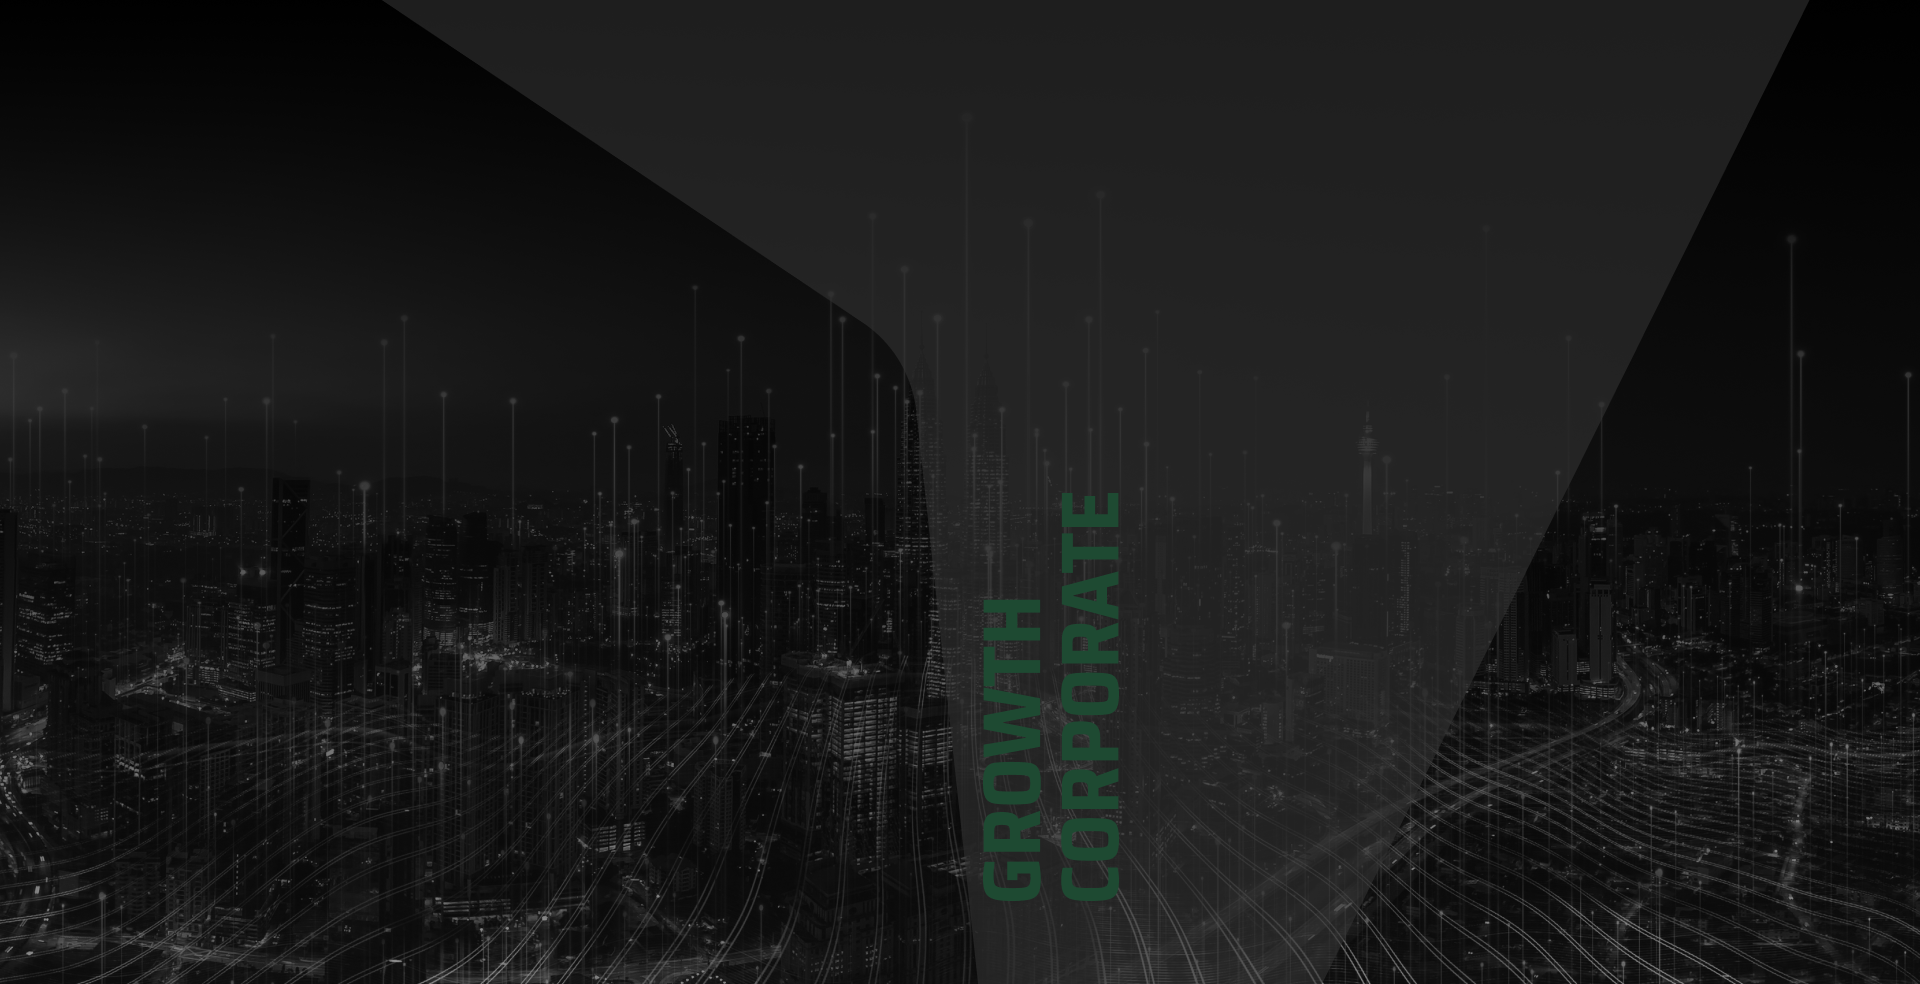
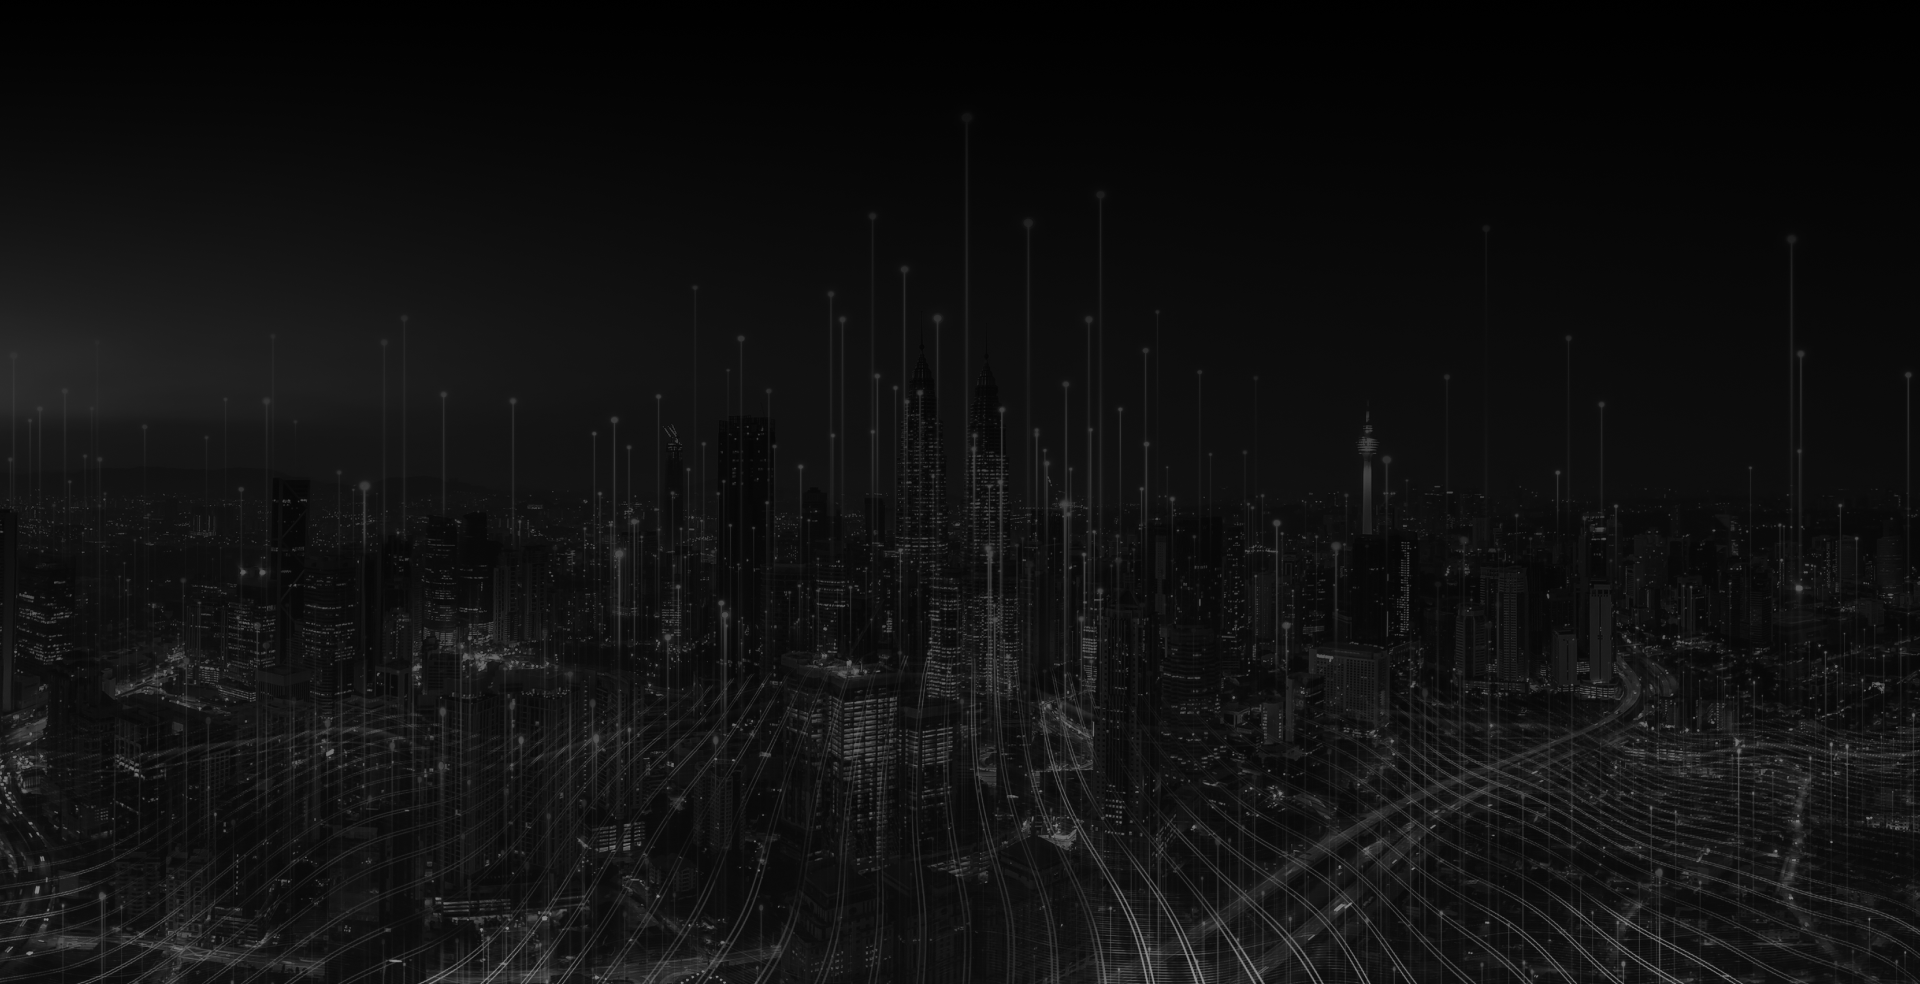
how-we-do responsiveness

diff --git a/src/pages/HowWeDo/Slider/index.tsx b/src/pages/HowWeDo/Slider/index.tsx
@@ -2,13 +2,8 @@ import React, { useCallback, useState } from 'react';
 import * as S from './styles';
 
 import {useHistory} from 'react-router-dom'
-
-import BackgroundCorporate from '../../../assets/img/background-corporate.png';
-import BackgroundStartup from '../../../assets/img/background-startup.png';
-
-interface Props {
-  changeBackground(background: string): void;
-}
+import GrowthCorporateImage from '../../../assets/img/h1-growth-corporate.svg'
+import GrowthStartupImage from '../../../assets/img/h1-growth-startup.svg'
 
 const data = [
   {
@@ -17,7 +12,7 @@ const data = [
     sobtitle: 'Como podemos ajudar',
     description: 'Trabalhamos com inovação e novos negócios em grandes empresas. Otimizamos os processos de vendas, marketing, tecnologia e serviços financeiros com nosso time de especialistas que atuam no mercado há mais de 15 anos.',
     buttonText: 'Fale com um especialista',
-    backgroundImage: BackgroundCorporate,
+    titleImage: GrowthCorporateImage
   },
   {
     id: 2,
@@ -25,17 +20,16 @@ const data = [
     sobtitle: 'Como podemos ajudar',
     description: 'Identificamos, investimos e acompanhamos os melhores empreendedores com suas startups. Otimizamos e crescemos juntos até o exit do negócio.',
     buttonText: 'Envie seu pitch deck',
-    backgroundImage: BackgroundStartup,
+    titleImage: GrowthStartupImage
   },
   {
     id: 3,
     title: 'O que é Venture Builder',
     description: 'São empresas que investem, constroem e desenvolvem empresas através de recursos próprios, desde infraestrutura física até recursos humanos. Em contrapartida, ganham participação acionária na na empresa criada até o break-even point (ou ponto de equilíbrio), quando a empresa de fato começa a ter lucro.',
-    backgroundImage: BackgroundCorporate,
   },
 ]
 
-const SliderHowWeDo: React.FC<Props> = ({changeBackground}) => {
+const SliderHowWeDo: React.FC = () => {
   const [currentItem, setCurrentItem] = useState(data[0])
   const history = useHistory();
 
@@ -47,11 +41,12 @@ const SliderHowWeDo: React.FC<Props> = ({changeBackground}) => {
     }
 
     setCurrentItem(item)
-    changeBackground(item.backgroundImage)
-  }, [changeBackground])
+  }, [])
 
   return (
     <S.Wrapper>
+      {currentItem.titleImage && <S.TitleImage src={currentItem.titleImage} />}
+
       {currentItem.sobtitle && <S.Sobtitle>{currentItem.sobtitle}</S.Sobtitle>}
 
       <S.Title>{currentItem.title}</S.Title>

diff --git a/src/pages/HowWeDo/Slider/styles.ts b/src/pages/HowWeDo/Slider/styles.ts
@@ -11,6 +11,7 @@ export const Wrapper = styled.main`
   flex-direction: column;
 
   width: 456px;
+  max-width: 456px;
   height: 707px;
 
   background: #1E1E1E;
@@ -34,12 +35,51 @@ export const Wrapper = styled.main`
     bottom: 110px;
     right: 30px;
   }
+
+  @media (max-width: 600px){
+    width: 92%;
+  }
+
+  @media (max-width: 450px){
+    height: 70vh;
+    padding: 50px;
+    padding-top: 70px;
+
+    > svg:nth-of-type(1) {
+      width: 40px;
+
+      top: -70px;
+      left: 20px;
+    }
+
+    > svg:nth-of-type(2) {
+      bottom: 10px;
+      right: 20px;
+    }
+  }
+`
+
+export const TitleImage = styled.img`
+  position: absolute;
+  right: -200px;
+  bottom: 30px;
+
+  transition: opacity 0.4s;
+
+  @media (max-width: 760px){
+    opacity: 0;
+  }
 `
 
 export const Sobtitle = styled.strong`
   margin-bottom: 10px;
 
+  overflow: visible;
   text-transform: uppercase;
+
+  @media (max-width: 450px){
+    font-size: 14px;
+  }
 `
 
 export const Title = styled.h1`
@@ -53,6 +93,10 @@ export const Title = styled.h1`
   margin-bottom: 14px;
 
   overflow: visible;
+
+  @media (max-width: 450px){
+    font-size: 32px;
+  }
 `
 
 export const Description = styled.p`
@@ -62,6 +106,12 @@ export const Description = styled.p`
   color: #B1B1B1;
   font-size: 14px;
   line-height: 24px;
+
+  @media (max-width: 450px){
+    margin-top: 6px;
+    font-size: 12px;
+    line-height: 16px;
+  }
 `
 
 export const Button = styled.button`
@@ -70,6 +120,10 @@ export const Button = styled.button`
   border: none;
   border-radius: 100px;
   margin-top: 40px;
+
+  @media (max-width: 450px){
+    padding: 12px 20px;
+  }
 `
 
 export const NavigationBar = styled.div`
@@ -86,6 +140,12 @@ export const NavigationBar = styled.div`
     path {
       transition: all 0.2s; 
     }
+  }
+
+  @media (max-width: 450px){
+    justify-content: center;
+    width: 100%;
+    right: 0;
   }
 `
 

diff --git a/src/pages/HowWeDo/styles.ts b/src/pages/HowWeDo/styles.ts
@@ -1,8 +1,10 @@
 import styled from 'styled-components'
 
+import BackgroundImage from '../../assets/img/background-corporate.png';
 import LayoutBase from '../../components/LayoutBase';
 
 export const Wrapper = styled(LayoutBase)`
+  background-image: url(${BackgroundImage});
   background-position-x: 0px !important;
   background-color: #000;
   background-repeat: no-repeat;
@@ -16,4 +18,13 @@ export const ContentWrapper = styled.div`
 
   height: 100vh;
   margin-left: 120px;
+
+  @media (max-width: 1200px){
+    margin-left: 30px;
+  }
+
+  @media (max-width: 600px){
+    margin-left: 0px;
+    justify-content: center;
+  }
 `

diff --git a/src/pages/HowWeDo/index.tsx b/src/pages/HowWeDo/index.tsx
@@ -1,16 +1,14 @@
-import React, { useState } from 'react';
+import React from 'react';
 import * as S from './styles';
 
-import BackgroundImage from '../../assets/img/background-corporate.png';
 import SliderHowWeDo from './Slider';
 
 const HowWeDo: React.FC = () => {
-  const [background, setBackground] = useState(BackgroundImage)
 
   return (
-    <S.Wrapper style={{backgroundImage: `url(${background})`}}>
+    <S.Wrapper>
       <S.ContentWrapper>
-        <SliderHowWeDo changeBackground={setBackground} />
+        <SliderHowWeDo />
       </S.ContentWrapper>
     </S.Wrapper>
   )
